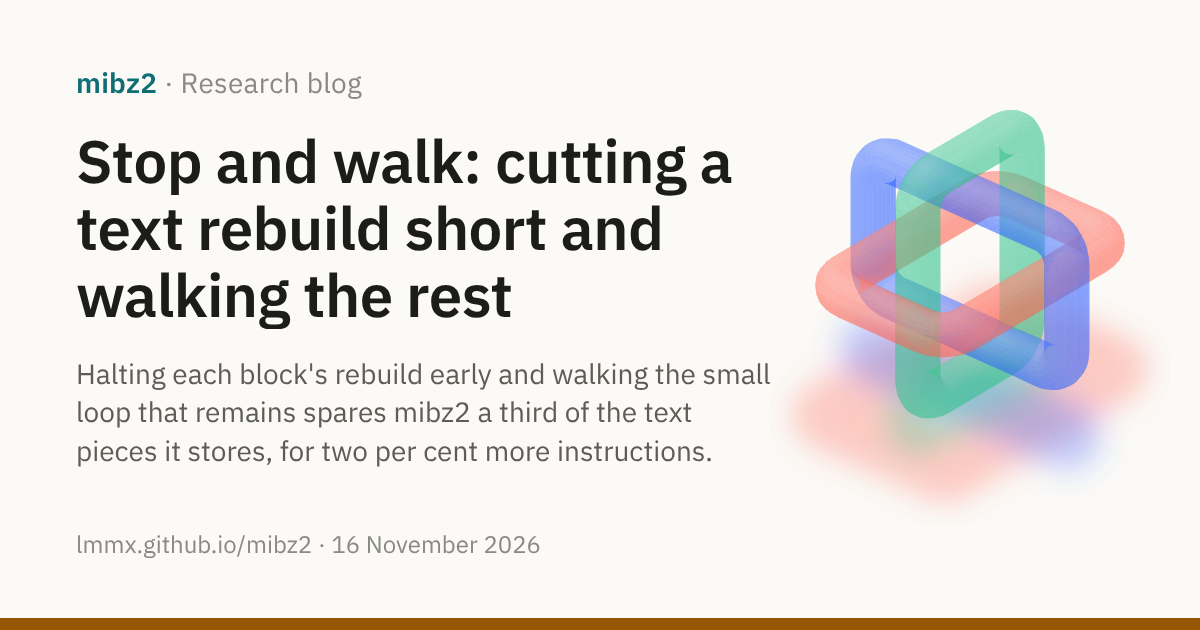
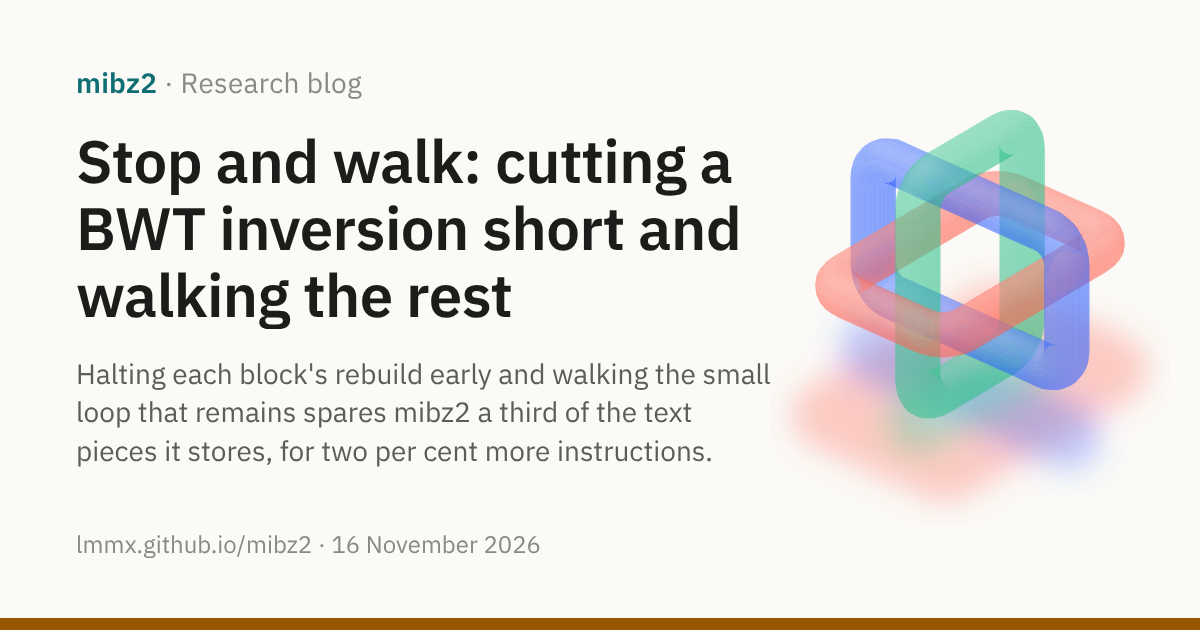
Blog: name BWT inversion plainly, not 'text rebuild', in the dictionary and stop-and-walk titles

Changed region(s): [[0.0617, 0.3317, 0.6167, 0.4222]]

diff --git a/docs/site/blog/index.md b/docs/site/blog/index.md
@@ -8,8 +8,8 @@ What mibz2's experiments are finding, and where they go next. The evidence behin
 post is in the [journals](../background/journals.md) and the pull requests they link.
 
 <div class="post-list">
-<a class="post-card" href="2026-11-16-mathematical-dictionary.md"><img src="../assets/social/blog-2026-11-16-mathematical-dictionary.png" alt="" loading="lazy"><span class="post-card-text"><span class="post-card-date">16 November 2026 · Research synthesis</span><span class="post-card-title">Towers, words and loops: a mathematical dictionary for our text rebuild</span><span class="post-card-dek">Our text rebuild turns out not to be the sheaf an earlier analogy suggested, yet the places of its words form one naturally and exactly.</span></span></a>
-<a class="post-card" href="2026-11-16-stop-and-walk.md"><img src="../assets/social/blog-2026-11-16-stop-and-walk.png" alt="" loading="lazy"><span class="post-card-text"><span class="post-card-date">16 November 2026 · Research in progress</span><span class="post-card-title">Stop and walk: cutting a text rebuild short and walking the rest</span><span class="post-card-dek">Halting each block's rebuild early and walking the small loop that remains spares mibz2 a third of the text pieces it stores, for two per cent more instructions.</span></span></a>
+<a class="post-card" href="2026-11-16-mathematical-dictionary.md"><img src="../assets/social/blog-2026-11-16-mathematical-dictionary.png" alt="" loading="lazy"><span class="post-card-text"><span class="post-card-date">16 November 2026 · Research synthesis</span><span class="post-card-title">Towers, words and loops: a mathematical dictionary for BWT inversion</span><span class="post-card-dek">Our BWT inversion is not the sheaf an earlier analogy suggested, yet the places of its words form one naturally.</span></span></a>
+<a class="post-card" href="2026-11-16-stop-and-walk.md"><img src="../assets/social/blog-2026-11-16-stop-and-walk.png" alt="" loading="lazy"><span class="post-card-text"><span class="post-card-date">16 November 2026 · Research in progress</span><span class="post-card-title">Stop and walk: cutting a BWT inversion short and walking the rest</span><span class="post-card-dek">Halting each block's rebuild early and walking the small loop that remains spares mibz2 a third of the text pieces it stores, for two per cent more instructions.</span></span></a>
 <a class="post-card" href="2026-11-16-lazy-letters.md"><img src="../assets/social/blog-2026-11-16-lazy-letters.png" alt="" loading="lazy"><span class="post-card-text"><span class="post-card-date">16 November 2026 · Research result</span><span class="post-card-title">Lazy letters: just-in-time memory for induction</span><span class="post-card-dek">Holding fewer letters at once leaves the cache less crowded, so eight to ten threads decode up to 11% faster despite extra instructions.</span></span></a>
 <a class="post-card" href="2026-11-15-free-closure.md"><img src="../assets/social/blog-2026-11-15-free-closure.png" alt="" loading="lazy"><span class="post-card-text"><span class="post-card-date">15 November 2026 · Research result</span><span class="post-card-title">The free closure of an induction: where free steps come to rest</span><span class="post-card-dek">The steps that cost mibz2 no bookkeeping can be taken in any order and still meet at one end point, now proved to belong to the block itself.</span></span></a>
 <a class="post-card" href="2026-11-15-induction-width.md"><img src="../assets/social/blog-2026-11-15-induction-width.png" alt="" loading="lazy"><span class="post-card-text"><span class="post-card-date">15 November 2026 · Research in progress</span><span class="post-card-title">The width of an induction: how much it must hold at once</span><span class="post-card-dek">Taking the steps that cost no bookkeeping first would let mibz2 rebuild a block while keeping about a third as much in memory at its busiest moment.</span></span></a>

diff --git a/docs/site/blog/2026-11-16-mathematical-dictionary.md b/docs/site/blog/2026-11-16-mathematical-dictionary.md
@@ -1,7 +1,7 @@
 ---
-title: "Towers, words and loops: a mathematical dictionary for our text rebuild"
+title: "Towers, words and loops: a mathematical dictionary for BWT inversion"
 image: assets/social/blog-2026-11-16-mathematical-dictionary.png
-description: "Our text rebuild turns out not to be the sheaf an earlier analogy suggested, yet the places of its words form one naturally and exactly."
+description: "Our BWT inversion is not the sheaf an earlier analogy suggested, yet the places of its words form one naturally."
 ---
 
 <div class="post-hero" markdown>
@@ -11,9 +11,9 @@ description: "Our text rebuild turns out not to be the sheaf an earlier analogy 
 [mibz2 · Research blog](index.md)
 {: .post-kicker }
 
-# Towers, words and loops: a mathematical dictionary for our text rebuild
+# Towers, words and loops: a mathematical dictionary for BWT inversion
 
-Our text rebuild turns out not to be the sheaf an earlier analogy suggested, yet the places of its words form one naturally and exactly.
+Our BWT inversion is not the sheaf an earlier analogy suggested, yet the places of its words form one naturally.
 {: .post-dek }
 
 16 November 2026 · 17 min read · [Research synthesis](#8-where-this-leaves-us)
@@ -25,7 +25,7 @@ Our text rebuild turns out not to be the sheaf an earlier analogy suggested, yet
 
 </div>
 
-mibz2, our bzip2 decoder, rebuilds the text of a block with a kernel we call **Cells**. Over the past week our notes have described it in a working vocabulary of letters, words, cells, rules, steps, a marked row, a writer and a stop. They have also borrowed three pictures from Robert Ghrist's *Elementary Applied Topology*: discrete Morse theory, sheaves of monoids, and circular coordinates. This post says exactly which mathematical object each of our words names, and how far each borrowed picture holds.
+mibz2, our bzip2 decoder, inverts each block's Burrows–Wheeler transform with a kernel we call **Cells**. Over the past week our notes have described it in a working vocabulary of letters, words, cells, rules, steps, a marked row, a writer and a stop. They have also borrowed three pictures from Robert Ghrist's *Elementary Applied Topology*: discrete Morse theory, sheaves of monoids, and circular coordinates. This post says exactly which mathematical object each of our words names, and how far each borrowed picture holds.
 
 **The setting, in brief.** bzip2 stores a block as the last column $L$ of its sorted rotations, the Burrows–Wheeler transform (BWT), together with the row that holds the original text. A map called **LF** sends each row to the row of the rotation one byte earlier. Following LF from that row reads the block backwards, one byte per step. A **run** is a stretch of equal bytes in $L$, and LF shifts all of a run's rows by the same amount. So LF is an **interval exchange**: a handful of intervals, each moved whole to a new place. [The mathematical structure of inverse-BWT navigation](2026-11-08-inverse-bwt-navigation.md) sets out that structure. [A new way back from the BWT](2026-11-10-rauzy-veech-reconstruction.md) shows Cells shrinking the exchange step by step on a three-byte block, and the [technical companion](2026-11-12-rauzy-technical-companion.md) describes its memory layout.
 

diff --git a/docs/site/blog/2026-11-16-stop-and-walk.md b/docs/site/blog/2026-11-16-stop-and-walk.md
@@ -1,5 +1,5 @@
 ---
-title: "Stop and walk: cutting a text rebuild short and walking the rest"
+title: "Stop and walk: cutting a BWT inversion short and walking the rest"
 image: assets/social/blog-2026-11-16-stop-and-walk.png
 description: "Halting each block's rebuild early and walking the small loop that remains spares mibz2 a third of the text pieces it stores, for two per cent more instructions."
 ---
@@ -11,7 +11,7 @@ description: "Halting each block's rebuild early and walking the small loop that
 [mibz2 · Research blog](index.md)
 {: .post-kicker }
 
-# Stop and walk: cutting a text rebuild short and walking the rest
+# Stop and walk: cutting a BWT inversion short and walking the rest
 
 Halting each block's rebuild early and walking the small loop that remains spares mibz2 a third of the text pieces it stores, for two per cent more instructions.
 {: .post-dek }
